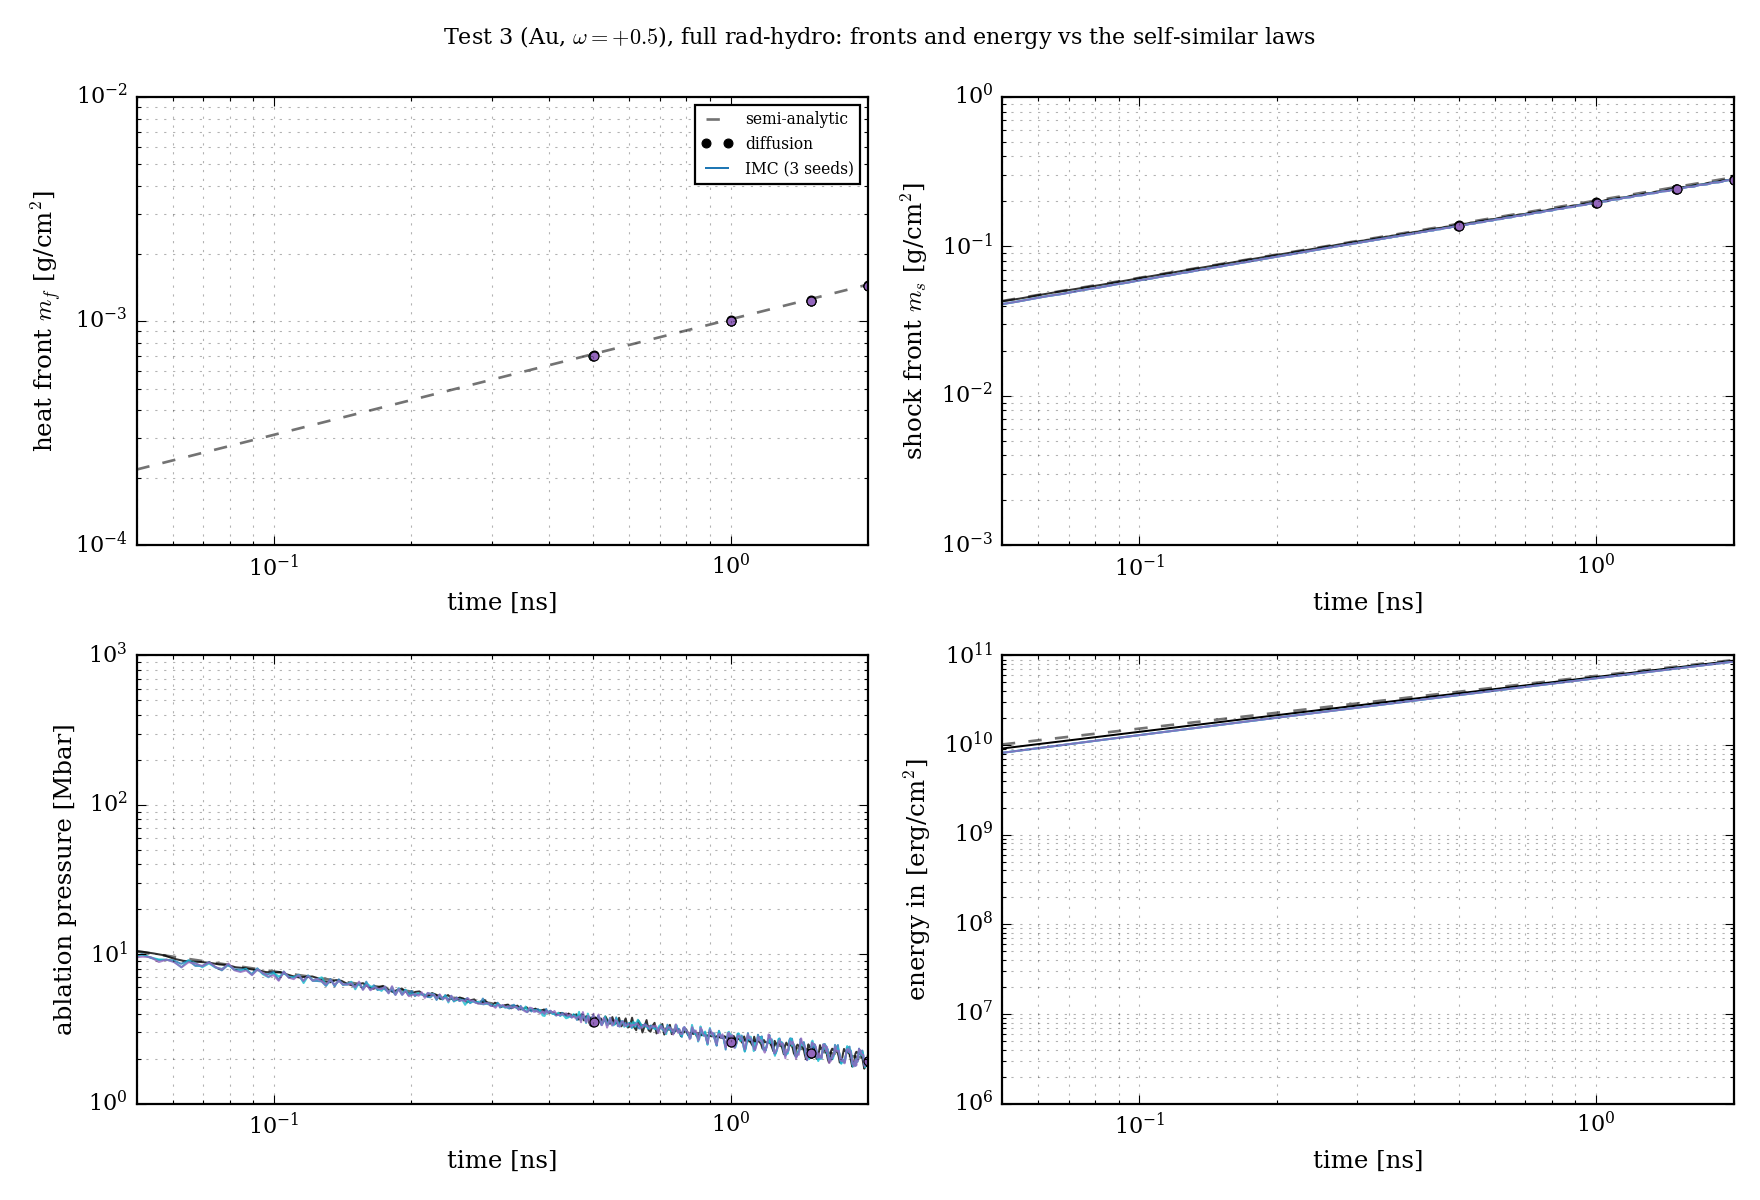
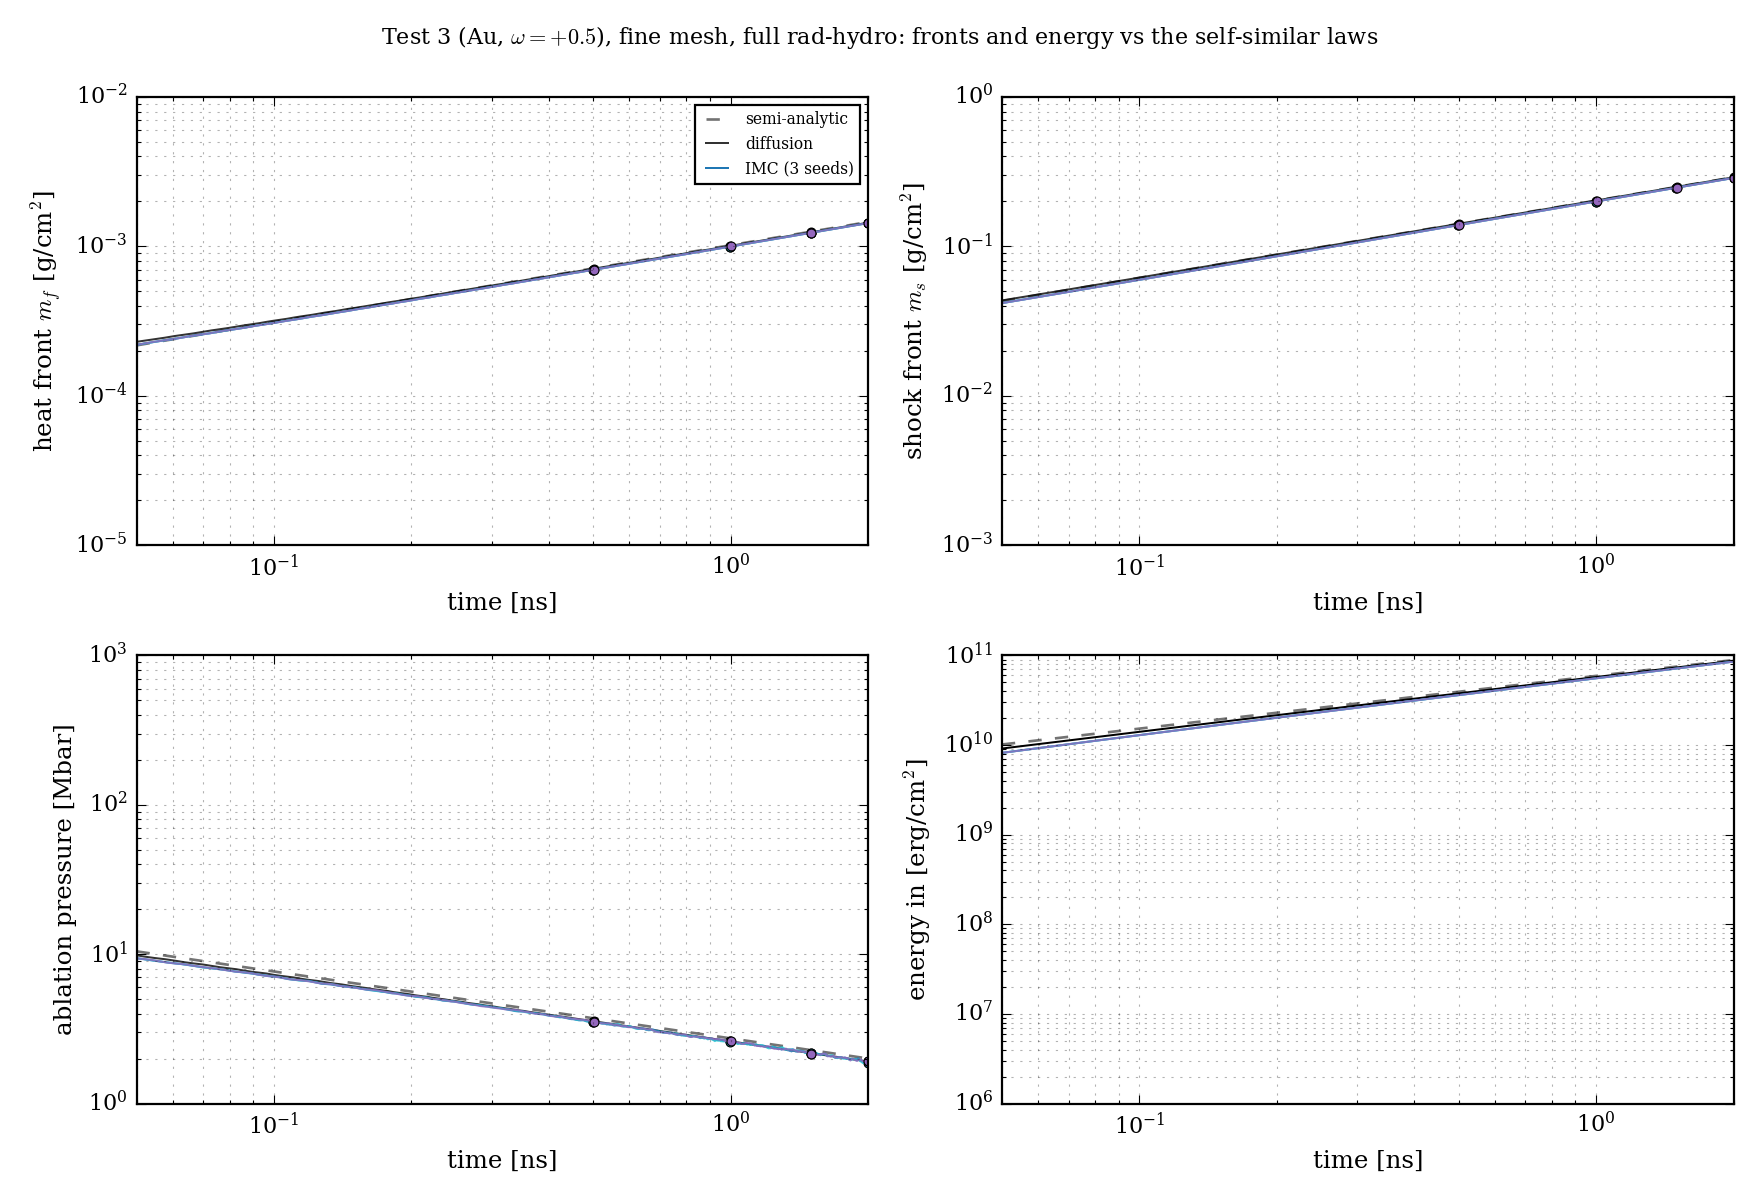
Test 3 fine mesh: IMC added to the profiles
IMC vs diffusion at 2 ns on the 1237-cell mesh: heat front -0.6%, shock
-1.0%, ablation pressure +0.1%, energy -2.2%.  Behind the ablation front
IMC's density is higher than diffusion's and closer to the solver's, so
the deficit there points at diffusion's unlimited flux preheating the
dense material, not at the hydro.

diff --git a/md/phase_c/phase_c_tests3to6_results.md b/md/phase_c/phase_c_tests3to6_results.md
@@ -85,8 +85,9 @@ With ω = −0.5 the ablated mass is 28–37% of the shocked mass, and the shock
   - **How the cap works:** it keeps every cell lighter than 0.3 mg/cm², including the 3×10⁻¹³ cm surface cells that set dt, then grows the cell mass by ≤ 5% per cell up to the cap. The result is 1237 cells at the same step count. Each step costs more, so diffusion takes 2.4–7 h depending on machine load, against 22 min on the coarse mesh.
   - **What it changes:** diffusion's shock goes from −2.1% to 0.0% of the solver's, and the pressure plateau lies on it; the heat front (−1.0%) and the ablation pressure (−4.5%) are unchanged.
   - **A failed first version:** an earlier version of the cap split each heavy cell into whole pieces. That left neighbours at mass ratios down to 0.52, and the hydro made density spikes at exactly those jumps, so it was replaced.
-  - **The density deficit:** behind the ablation front (1–10 mg/cm²) diffusion's density is 20–25% below the solver's at equal pressure, i.e. hotter material. The likely cause is the wall-heating error of Lagrangian hydro next to a piston, against a solver density that rises steeply toward the front for ω = +0.5. This is not yet confirmed.
-  - `test3_full_profiles.png` shows this fine mesh. The IMC curves are added when its runs finish.
+  - **IMC vs. diffusion on this mesh** (3 seeds, 2.5–8.8 h each), at 2 ns: heat front −0.6%, shock −1.0%, ablation pressure +0.1%, energy −2.2%. Energy error 7×10⁻¹⁰ (IMC), 10⁻¹³ (diffusion).
+  - **The density deficit:** behind the ablation front (1–10 mg/cm²) diffusion's density is 20–25% below the solver's at equal pressure, i.e. hotter material. **IMC's density there is clearly higher than diffusion's and closer to the solver**, with the same hydro, so this is not a hydro (wall-heating) error, as first suggested here. It points at radiation. Gray diffusion without a flux limiter carries too much flux into the cold, dense material just ahead of the ablation front, preheating it, while transport limits that flux. Both stay below the solver's density, which rises steeply toward the front for ω = +0.5. This is the one visible place in Test 3 where transport and diffusion differ. The mechanism is inferred from the figure, not yet confirmed: a flux-limited diffusion run (plan M11) would test it.
+  - `test3_full_profiles.png` and `test3_full_fronts.png` show this fine mesh, with IMC.
 - **Copper's domain is cut to 3×10⁻² g/cm²**, holding the 2.2×10⁻² g/cm² shock, so that 1000 cells resolve its ablated layer.
 
 ## 6. Reproducing
